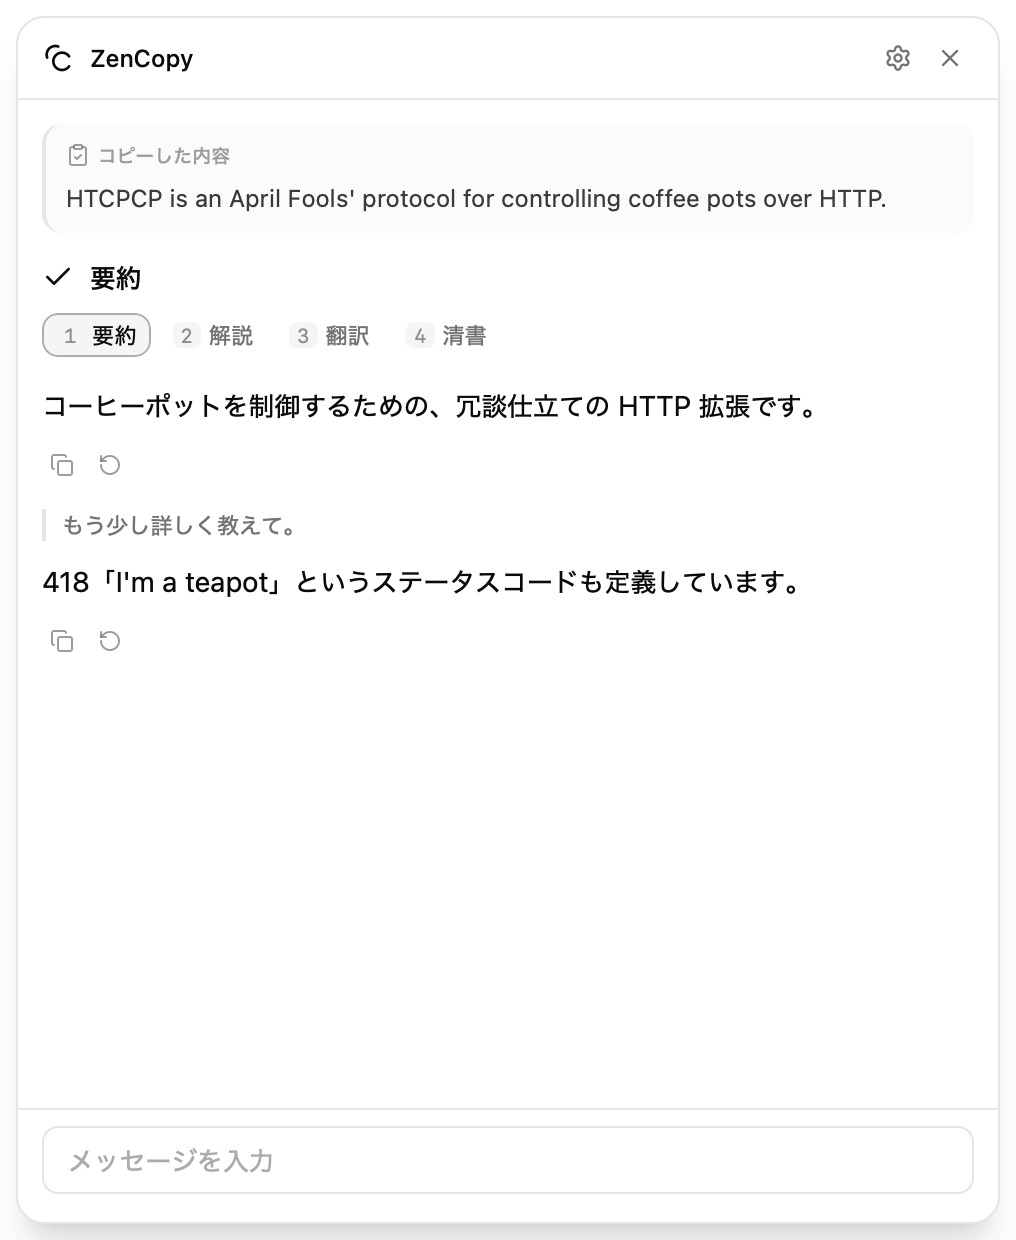
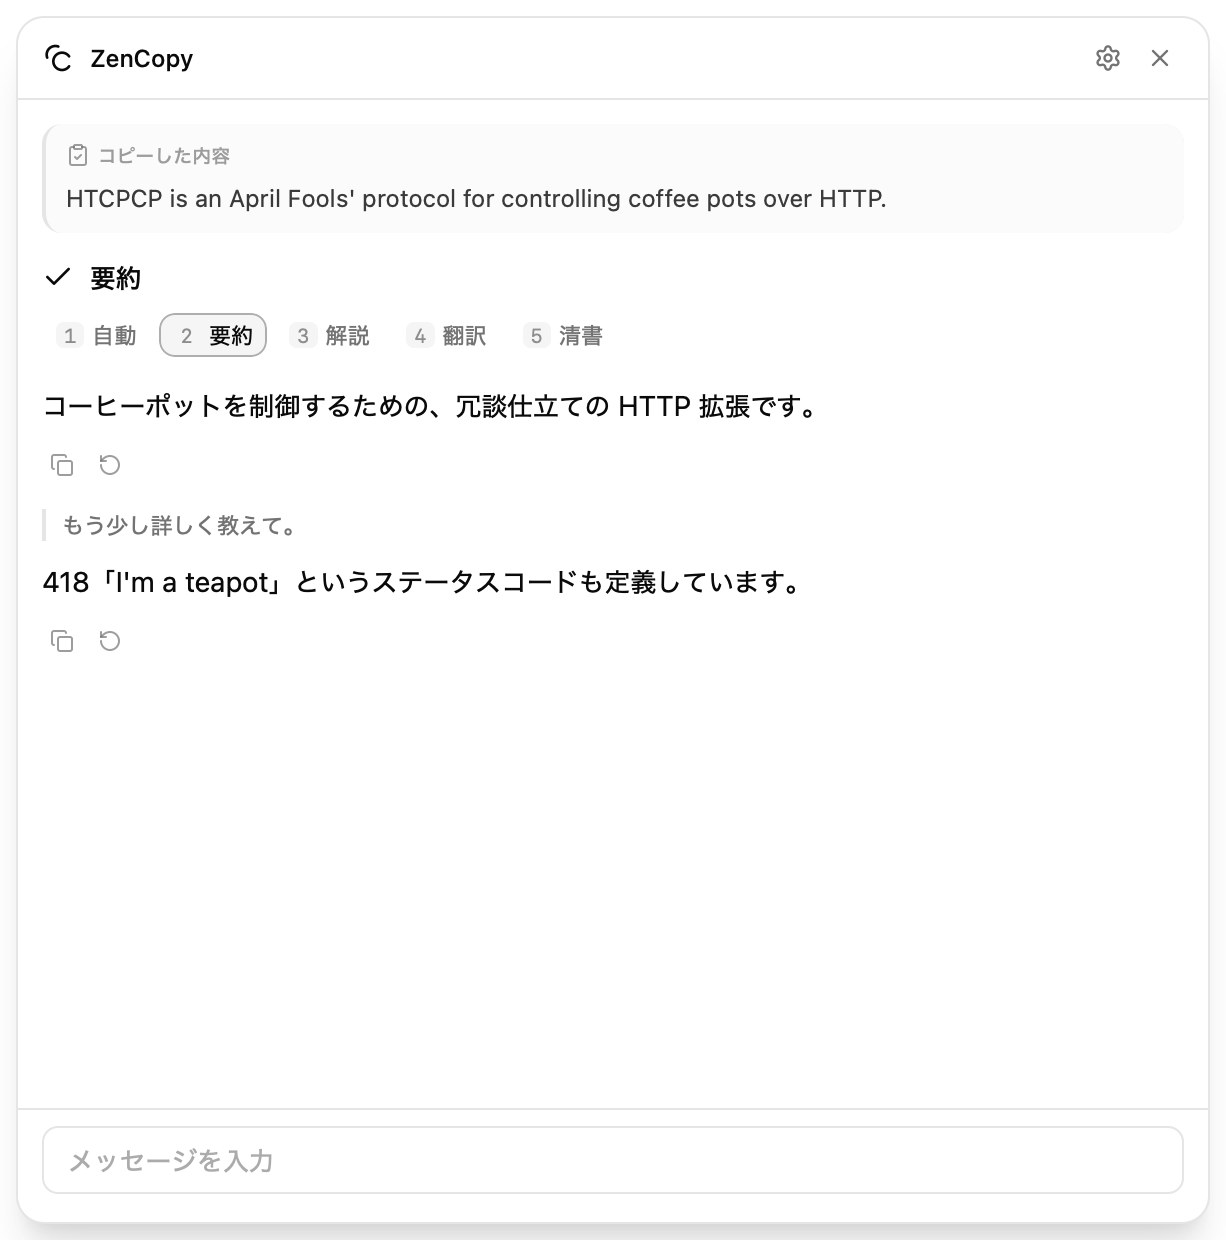
feat: Auto takes quick slot 1 — five pre-installed prompts now fill number keys 1–5 (slot strings updated in all 19 locales), and the popup's home width is re-measured for the five-label row (German widest at 533, viewport 458→613, card breakpoint 560→640) so no locale truncates or wraps

diff --git a/src/lib/messages/th.ts b/src/lib/messages/th.ts
@@ -61,7 +61,7 @@ export const th: Messages = {
     userContextClear: "ล้าง",
     userContextCleared: "ล้างแล้ว",
     quickTitle: "พรอมต์ด่วน",
-    quickHint: "พรอมต์สี่รายการที่ป๊อปอัปผูกกับปุ่มตัวเลข 1–4 ลากเพื่อจัดลำดับ",
+    quickHint: "พรอมต์ห้ารายการที่ป๊อปอัปผูกกับปุ่มตัวเลข 1–5 ลากเพื่อจัดลำดับ",
     resetTitle: "รีเซ็ต",
     resetHint: "คืน ZenCopy สู่สถานะเหมือนเพิ่งติดตั้งเสร็จ — การตั้งค่า พรอมต์ และสถิติการใช้งานจะถูกลบทั้งหมด",
     resetButton: "รีเซ็ต",
@@ -75,7 +75,7 @@ export const th: Messages = {
   popup: {
     placeholder: "คัดลอกสองครั้งเร็ว ๆ เหมือนดับเบิลคลิก แล้วผลลัพธ์จะแสดงที่นี่",
     devVars: "ตัวแปรเทมเพลต",
-    noPrompt: "ข้อมูลนี้จะไม่เรียกใช้พรอมต์โดยอัตโนมัติ — เลือกด้านล่างหรือกดปุ่ม 1–4 เพื่อเรียกใช้",
+    noPrompt: "ข้อมูลนี้จะไม่เรียกใช้พรอมต์โดยอัตโนมัติ — เลือกด้านล่างหรือกดปุ่ม 1–5 เพื่อเรียกใช้",
     rulesDocs: "กฎทำงานอย่างไร",
     confirmSend: "ส่งข้อมูลนี้ไปยังผู้ให้บริการ AI ของคุณหรือไม่ รูปภาพและไฟล์อาจมีค่าใช้จ่ายมากกว่าข้อความ",
     send: "ส่ง",

diff --git a/src/lib/messages/ru.ts b/src/lib/messages/ru.ts
@@ -68,7 +68,7 @@ export const ru: Messages = {
     userContextCleared: "Очищено",
     quickTitle: "Быстрые промпты",
     quickHint:
-      "Четыре промпта, привязанных во всплывающем окне к цифрам 1–4. Перетаскивайте, чтобы изменить порядок.",
+      "Пять промптов, привязанных во всплывающем окне к цифрам 1–5. Перетаскивайте, чтобы изменить порядок.",
     resetTitle: "Сброс",
     resetHint:
       "Возвращает ZenCopy к состоянию сразу после установки — настройки, промпты и статистика использования полностью удаляются",
@@ -84,7 +84,7 @@ export const ru: Messages = {
     placeholder: "Скопируйте дважды, быстро — как двойной щелчок — и результат появится здесь.",
     devVars: "Переменные шаблона",
     noPrompt:
-      "Для этого захвата промпт не запускается автоматически — выберите один ниже или нажмите 1–4, чтобы запустить.",
+      "Для этого захвата промпт не запускается автоматически — выберите один ниже или нажмите 1–5, чтобы запустить.",
     rulesDocs: "Как работают правила",
     confirmSend:
       "Отправить этот захват вашему ИИ-провайдеру? Изображения и файлы могут стоить дороже текста.",

diff --git a/src/lib/messages/fa.ts b/src/lib/messages/fa.ts
@@ -66,7 +66,7 @@ export const fa: Messages = {
     userContextClear: "پاک کردن",
     userContextCleared: "پاک شد",
     quickTitle: "پرامپتهای سریع",
-    quickHint: "چهار پرامپتی که پنجره به کلیدهای عددی ۱ تا ۴ متصل میکند. برای مرتبسازی بکشید.",
+    quickHint: "پنج پرامپتی که پنجره به کلیدهای عددی ۱ تا ۵ متصل میکند. برای مرتبسازی بکشید.",
     resetTitle: "بازنشانی",
     resetHint:
       "ZenCopy را به حالت بلافاصله پس از نصب برمیگرداند — تنظیمات، پرامپتها و آمار استفاده همگی حذف میشوند",
@@ -82,7 +82,7 @@ export const fa: Messages = {
     placeholder: "دو بار سریع کپی کنید — مانند دابلکلیک — تا نتیجه اینجا نمایش داده شود.",
     devVars: "متغیرهای قالب",
     noPrompt:
-      "برای این برداشت هیچ پرامپتی بهطور خودکار اجرا نمیشود — یکی را در پایین انتخاب کنید یا کلیدهای 1–4 را فشار دهید.",
+      "برای این برداشت هیچ پرامپتی بهطور خودکار اجرا نمیشود — یکی را در پایین انتخاب کنید یا کلیدهای 1–5 را فشار دهید.",
     rulesDocs: "قوانین چگونه کار میکنند",
     confirmSend:
       "این برداشت به ارائهدهندهٔ هوش مصنوعی شما فرستاده شود؟ تصاویر و فایلها ممکن است بیش از متن هزینه داشته باشند.",

diff --git a/src/lib/messages/ar.ts b/src/lib/messages/ar.ts
@@ -65,7 +65,7 @@ export const ar: Messages = {
     userContextClear: "مسح",
     userContextCleared: "تم المسح",
     quickTitle: "موجّهات سريعة",
-    quickHint: "الموجّهات الأربعة التي تربطها النافذة بمفاتيح الأرقام 1–4. اسحب لإعادة الترتيب.",
+    quickHint: "الموجّهات الخمسة التي تربطها النافذة بمفاتيح الأرقام 1–5. اسحب لإعادة الترتيب.",
     resetTitle: "إعادة التعيين",
     resetHint:
       "يعيد ZenCopy إلى حالته بعد التثبيت مباشرة — تُحذف الإعدادات والموجّهات وإحصاءات الاستخدام جميعًا",
@@ -80,7 +80,7 @@ export const ar: Messages = {
   popup: {
     placeholder: "انسخ مرتين بسرعة — مثل النقر المزدوج — وستظهر النتيجة هنا.",
     devVars: "متغيرات القالب",
-    noPrompt: "لا يعمل أي موجّه تلقائيًا لهذا الالتقاط — اختر واحدًا أدناه أو اضغط 1–4 لتشغيله.",
+    noPrompt: "لا يعمل أي موجّه تلقائيًا لهذا الالتقاط — اختر واحدًا أدناه أو اضغط 1–5 لتشغيله.",
     rulesDocs: "كيف تعمل القواعد",
     confirmSend:
       "أترسل هذا الالتقاط إلى مزوّد الذكاء الاصطناعي لديك؟ قد تكلّف الصور والملفات أكثر من النص.",

diff --git a/src/lib/messages/he.ts b/src/lib/messages/he.ts
@@ -63,7 +63,7 @@ export const he: Messages = {
     userContextClear: "ניקוי",
     userContextCleared: "נוקה",
     quickTitle: "פרומפטים מהירים",
-    quickHint: "ארבעת הפרומפטים שהחלון מקשר למקשי הספרות 1–4. גררו כדי לסדר מחדש.",
+    quickHint: "חמשת הפרומפטים שהחלון מקשר למקשי הספרות 1–5. גררו כדי לסדר מחדש.",
     resetTitle: "איפוס",
     resetHint:
       "מחזיר את ZenCopy למצב שמיד לאחר ההתקנה — ההגדרות, הפרומפטים וסטטיסטיקות השימוש נמחקים כולם",
@@ -79,7 +79,7 @@ export const he: Messages = {
     placeholder: "העתיקו פעמיים, מהר — כמו לחיצה כפולה — והתוצאה תופיע כאן.",
     devVars: "משתני תבנית",
     noPrompt:
-      "שום פרומפט אינו מופעל באופן אוטומטי עבור הלכידה הזו — בחרו אחד למטה או הקישו 1–4 להפעלתו.",
+      "שום פרומפט אינו מופעל באופן אוטומטי עבור הלכידה הזו — בחרו אחד למטה או הקישו 1–5 להפעלתו.",
     rulesDocs: "איך כללים עובדים",
     confirmSend: "לשלוח את הלכידה הזו לספק ה‑AI שלכם? תמונות וקבצים עלולים לעלות יותר מטקסט.",
     send: "שליחה",

diff --git a/src/lib/messages/ja.ts b/src/lib/messages/ja.ts
@@ -68,7 +68,7 @@ export const ja: Messages = {
     userContextCleared: "クリアしました",
     quickTitle: "クイックプロンプト",
     quickHint:
-      "ポップアップで数字キー(1〜4)に割り当てる4つのプロンプト。ドラッグで並び替えできます。",
+      "ポップアップで数字キー(1〜5)に割り当てる5つのプロンプト。ドラッグで並び替えできます。",
     resetTitle: "初期化",
     resetHint:
       "ZenCopy をインストール直後の状態に戻します。設定・プロンプト・利用統計もすべて削除されます",
@@ -84,7 +84,7 @@ export const ja: Messages = {
     placeholder: "ダブルクリックの要領で素早く 2 回コピー — 結果がここに表示されます。",
     devVars: "テンプレート変数",
     noPrompt:
-      "このキャプチャは自動では実行されません。下のプロンプトを選ぶか、数字キー 1–4 で実行できます。",
+      "このキャプチャは自動では実行されません。下のプロンプトを選ぶか、数字キー 1–5 で実行できます。",
     rulesDocs: "振り分けの仕組みを見る",
     confirmSend:
       "このキャプチャを AI プロバイダーに送信しますか？画像やファイルはテキストより料金がかかることがあります。",

diff --git a/src/lib/messages/ko.ts b/src/lib/messages/ko.ts
@@ -68,7 +68,7 @@ export const ko: Messages = {
     userContextCleared: "지웠습니다",
     quickTitle: "빠른 프롬프트",
     quickHint:
-      "팝업에서 숫자 키 1–4에 연결되는 네 가지 프롬프트. 드래그해 순서를 바꿀 수 있습니다.",
+      "팝업에서 숫자 키 1–5에 연결되는 다섯 가지 프롬프트. 드래그해 순서를 바꿀 수 있습니다.",
     resetTitle: "초기화",
     resetHint: "ZenCopy를 설치 직후 상태로 되돌립니다. 설정·프롬프트·사용 통계가 모두 삭제됩니다",
     resetButton: "초기화",
@@ -83,7 +83,7 @@ export const ko: Messages = {
     placeholder: "더블 클릭하듯 빠르게 두 번 복사하면 결과가 여기에 표시됩니다.",
     devVars: "템플릿 변수",
     noPrompt:
-      "이 캡처는 자동으로 실행되지 않습니다. 아래에서 프롬프트를 선택하거나 숫자 키 1–4로 실행할 수 있습니다.",
+      "이 캡처는 자동으로 실행되지 않습니다. 아래에서 프롬프트를 선택하거나 숫자 키 1–5로 실행할 수 있습니다.",
     rulesDocs: "규칙 동작 방식 보기",
     confirmSend:
       "이 캡처를 AI 제공업체로 보낼까요? 이미지와 파일은 텍스트보다 비용이 더 들 수 있습니다.",

diff --git a/src/lib/messages/vi.ts b/src/lib/messages/vi.ts
@@ -66,7 +66,7 @@ export const vi: Messages = {
     userContextClear: "Xóa",
     userContextCleared: "Đã xóa",
     quickTitle: "Prompt nhanh",
-    quickHint: "Bốn prompt mà cửa sổ nổi gán cho các phím số 1–4. Kéo để sắp xếp lại.",
+    quickHint: "Năm prompt mà cửa sổ nổi gán cho các phím số 1–5. Kéo để sắp xếp lại.",
     resetTitle: "Đặt lại",
     resetHint:
       "Đưa ZenCopy về trạng thái ngay sau khi cài đặt — cài đặt, prompt và thống kê sử dụng đều bị xóa hết",
@@ -82,7 +82,7 @@ export const vi: Messages = {
     placeholder: "Sao chép hai lần thật nhanh — như nhấp đúp chuột — và kết quả sẽ hiện ở đây.",
     devVars: "Biến mẫu",
     noPrompt:
-      "Nội dung này không tự động chạy prompt nào — hãy chọn một prompt bên dưới hoặc nhấn 1–4 để chạy.",
+      "Nội dung này không tự động chạy prompt nào — hãy chọn một prompt bên dưới hoặc nhấn 1–5 để chạy.",
     rulesDocs: "Cách quy tắc hoạt động",
     confirmSend:
       "Gửi nội dung này đến nhà cung cấp AI của bạn? Hình ảnh và tệp có thể tốn kém hơn văn bản.",

diff --git a/src/lib/messages/fr.ts b/src/lib/messages/fr.ts
@@ -68,7 +68,7 @@ export const fr: Messages = {
     userContextCleared: "Effacé",
     quickTitle: "Prompts rapides",
     quickHint:
-      "Les quatre prompts que le popup associe aux touches numériques 1–4. Glissez pour réordonner.",
+      "Les cinq prompts que le popup associe aux touches numériques 1–5. Glissez pour réordonner.",
     resetTitle: "Réinitialiser",
     resetHint:
       "Remet ZenCopy dans l'état juste après l'installation — réglages, prompts et statistiques d'utilisation sont tous supprimés",
@@ -84,7 +84,7 @@ export const fr: Messages = {
     placeholder: "Copiez deux fois, vite — comme un double-clic — et le résultat apparaît ici.",
     devVars: "Variables de gabarit",
     noPrompt:
-      "Aucun prompt ne s'exécute automatiquement pour cette capture — choisissez-en un ci-dessous ou appuyez sur 1–4 pour l'exécuter.",
+      "Aucun prompt ne s'exécute automatiquement pour cette capture — choisissez-en un ci-dessous ou appuyez sur 1–5 pour l'exécuter.",
     rulesDocs: "Comment fonctionnent les règles",
     confirmSend:
       "Envoyer cette capture à votre fournisseur d'IA ? Les images et fichiers peuvent coûter plus cher que le texte.",

diff --git a/src/lib/messages/tr.ts b/src/lib/messages/tr.ts
@@ -68,7 +68,7 @@ export const tr: Messages = {
     userContextCleared: "Temizlendi",
     quickTitle: "Hızlı istemler",
     quickHint:
-      "Açılır pencerenin 1–4 sayı tuşlarına bağladığı dört istem. Yeniden sıralamak için sürükle.",
+      "Açılır pencerenin 1–5 sayı tuşlarına bağladığı beş istem. Yeniden sıralamak için sürükle.",
     resetTitle: "Sıfırla",
     resetHint:
       "ZenCopy'yi kurulumdan hemen sonraki duruma döndürür — ayarlar, istemler ve kullanım istatistikleri tümüyle silinir",
@@ -84,7 +84,7 @@ export const tr: Messages = {
     placeholder: "Hızlıca iki kez kopyala — çift tıklama gibi — sonuç burada görünür.",
     devVars: "Şablon değişkenleri",
     noPrompt:
-      "Bu yakalama otomatik olarak bir istem çalıştırmaz — aşağıdan birini seç veya çalıştırmak için 1–4'e bas.",
+      "Bu yakalama otomatik olarak bir istem çalıştırmaz — aşağıdan birini seç veya çalıştırmak için 1–5'e bas.",
     rulesDocs: "Kurallar nasıl çalışır",
     confirmSend:
       "Bu yakalama AI sağlayıcına gönderilsin mi? Görseller ve dosyalar metinden pahalı olabilir.",

diff --git a/src/lib/messages/pl.ts b/src/lib/messages/pl.ts
@@ -68,7 +68,7 @@ export const pl: Messages = {
     userContextCleared: "Wyczyszczono",
     quickTitle: "Szybkie prompty",
     quickHint:
-      "Cztery prompty przypisane w okienku do klawiszy 1–4. Przeciągnij, aby zmienić kolejność.",
+      "Pięć promptów przypisanych w okienku do klawiszy 1–5. Przeciągnij, aby zmienić kolejność.",
     resetTitle: "Reset",
     resetHint:
       "Przywraca ZenCopy do stanu tuż po instalacji — ustawienia, prompty i statystyki użycia zostają w całości usunięte",
@@ -84,7 +84,7 @@ export const pl: Messages = {
     placeholder: "Skopiuj dwa razy, szybko — jak podwójne kliknięcie — a wynik pojawi się tutaj.",
     devVars: "Zmienne szablonu",
     noPrompt:
-      "To przechwycenie nie uruchamia promptu automatycznie — wybierz jeden poniżej albo naciśnij 1–4, aby go uruchomić.",
+      "To przechwycenie nie uruchamia promptu automatycznie — wybierz jeden poniżej albo naciśnij 1–5, aby go uruchomić.",
     rulesDocs: "Jak działają reguły",
     confirmSend:
       "Wysłać to przechwycenie do twojego dostawcy AI? Obrazy i pliki mogą kosztować więcej niż tekst.",

diff --git a/src/lib/messages/zh-hant.ts b/src/lib/messages/zh-hant.ts
@@ -61,7 +61,7 @@ export const zhHant: Messages = {
     userContextClear: "清除",
     userContextCleared: "已清除",
     quickTitle: "快捷提示詞",
-    quickHint: "彈出視窗中綁定到數字鍵 1–4 的四個提示詞。拖曳可重新排序。",
+    quickHint: "彈出視窗中綁定到數字鍵 1–5 的五個提示詞。拖曳可重新排序。",
     resetTitle: "重設",
     resetHint: "將 ZenCopy 恢復到剛安裝完成的狀態——設定、提示詞和使用統計都會被刪除",
     resetButton: "初始化",
@@ -75,7 +75,7 @@ export const zhHant: Messages = {
   popup: {
     placeholder: "像連按兩下一樣快速複製兩次，結果就會顯示在這裡。",
     devVars: "範本變數",
-    noPrompt: "這次擷取不會自動執行提示詞 — 請在下方選擇一個，或按數字鍵 1–4 執行。",
+    noPrompt: "這次擷取不會自動執行提示詞 — 請在下方選擇一個，或按數字鍵 1–5 執行。",
     rulesDocs: "了解規則機制",
     confirmSend: "要把這次擷取傳送給你的 AI 供應商嗎？圖片和檔案可能比文字花費更多。",
     send: "傳送",
